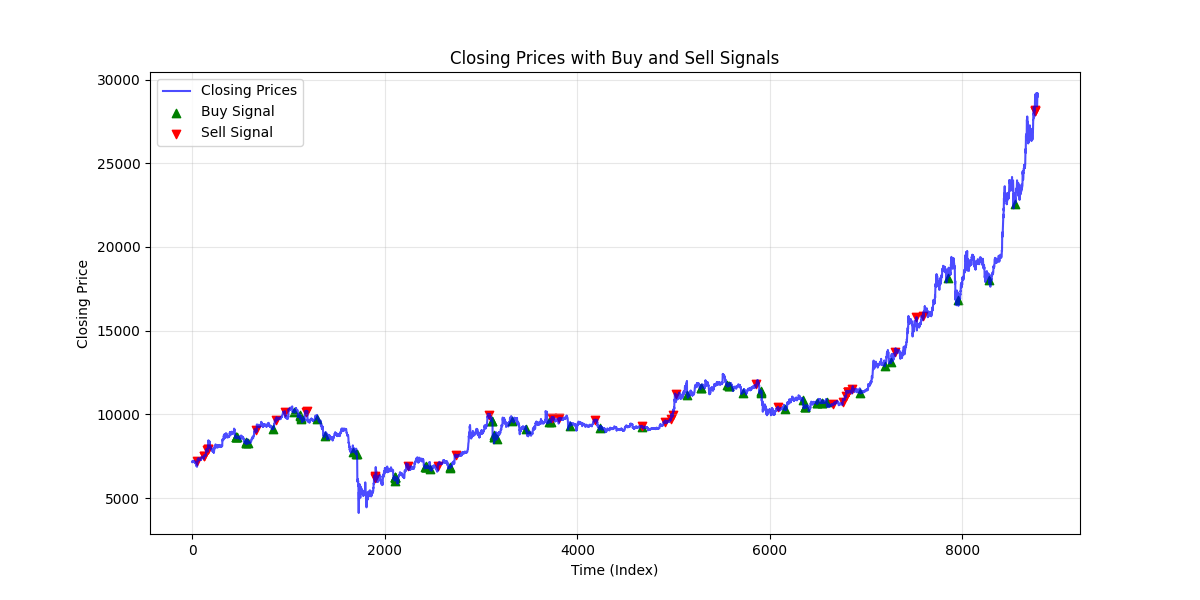
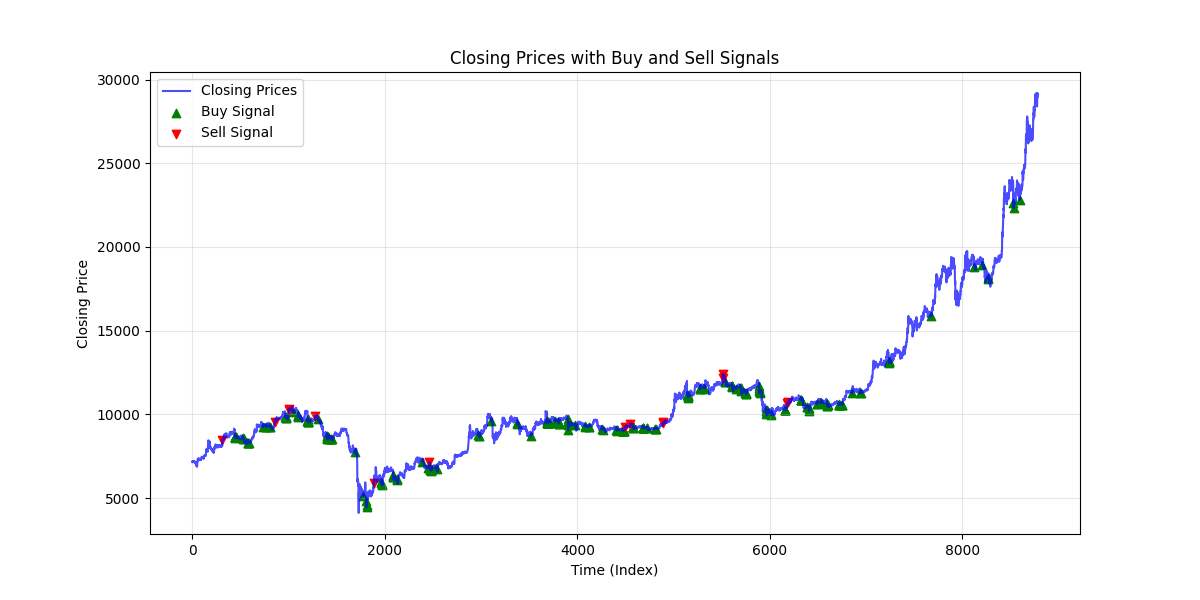
added macd_bot not really working though

diff --git a/utils/plots.py b/utils/plots.py
@@ -29,3 +29,46 @@ def plot(data, signals, plot_name="signals_plot"):
     # plt.grid(alpha=0.3)
     # plt.savefig("plots/signals_bar_plot.png")
     # print("Bar plot saved as 'signals_bar_plot.png'")
+
+def plot_macd_with_signals(data, macd_line, signal_line, signals, plot_name="macd_with_signals"):
+    """
+    Plot the MACD line, Signal line, prices, and buy/sell signals on the same graph.
+
+    Parameters:
+        data (pd.DataFrame): The dataset containing price data.
+        macd_line (numpy.ndarray): The MACD line (difference between fast and slow EMA).
+        signal_line (numpy.ndarray): The Signal line (EMA of the MACD line).
+        signals (numpy.ndarray): Array of buy/sell signals (1 for buy, -1 for sell, 0 for hold).
+        plot_name (str): The name of the plot file to save.
+    """
+    prices = data['close'].values
+    buy_signals = np.where(signals == 1)[0]
+    sell_signals = np.where(signals == -1)[0]
+
+    plt.figure(figsize=(14, 8))
+
+    # Plot the closing prices
+    plt.subplot(2, 1, 1)
+    plt.plot(prices, label="Closing Prices", color="blue", alpha=0.7)
+    plt.scatter(buy_signals, prices[buy_signals], label="Buy Signal", marker="^", color="green", alpha=1)
+    plt.scatter(sell_signals, prices[sell_signals], label="Sell Signal", marker="v", color="red", alpha=1)
+    plt.title("Closing Prices with Buy/Sell Signals")
+    plt.xlabel("Time")
+    plt.ylabel("Price")
+    plt.legend()
+    plt.grid(alpha=0.3)
+
+    # Plot the MACD line and Signal line
+    plt.subplot(2, 1, 2)
+    plt.plot(macd_line, label="MACD Line", color="orange", alpha=0.7)
+    plt.plot(signal_line, label="Signal Line", color="purple", alpha=0.7)
+    plt.bar(range(len(macd_line)), macd_line - signal_line, label="MACD Histogram", color="gray", alpha=0.5)
+    plt.title("MACD Line and Signal Line")
+    plt.xlabel("Time")
+    plt.ylabel("Value")
+    plt.legend()
+    plt.grid(alpha=0.3)
+
+    # Save the plot
+    plt.tight_layout()
+    plt.savefig(f"plots/{plot_name}.png")

diff --git a/bots/macd_bot.py b/bots/macd_bot.py
@@ -1,0 +1,53 @@
+import numpy as np
+from bots.bot_base import bot
+from filters.macd import macd
+from utils.data_loader import read_csv
+from config import TRAINING_DATASET_PATH
+from optimisers.grid_search_optimiser import grid_search_optimiser
+from utils.plots import plot_macd_with_signals
+
+class macd_bot(bot):
+    """
+    MACD Strategy:
+    - Hyperparameters:
+      - fast_window: Fast EMA period
+      - slow_window: Slow EMA period
+      - signal_window: Signal line EMA period
+    - Buy (+1) when the MACD line crosses above the Signal line;
+      Sell (-1) when the MACD line crosses below the Signal line;
+      Hold (0) otherwise.
+    """
+
+    def __init__(self):
+        self.hyperparams = []
+        self.bounds = [
+            list(range(5, 31)),
+            list(range(20, 61)), 
+            list(range(5, 21)), 
+        ]
+
+    def generate_signals(self, data):
+        fast_window, slow_window, signal_window = map(int, self.hyperparams)
+
+        fast_window = max(min(fast_window, max(self.bounds[0])), min(self.bounds[0]))
+        slow_window = max(min(slow_window, max(self.bounds[1])), min(self.bounds[1]))
+        signal_window = max(min(signal_window, max(self.bounds[2])), min(self.bounds[2]))
+
+        prices = data["close"].values
+
+        macd_line, signal_line, _ = macd(prices, fast_window, slow_window, signal_window)
+
+        signals = np.zeros_like(macd_line)
+
+        buy_signals = (macd_line[1:] > signal_line[1:]) & (macd_line[:-1] <= signal_line[:-1])
+        signals[1:][buy_signals] = 1
+
+        sell_signals = (macd_line[1:] < signal_line[1:]) & (macd_line[:-1] >= signal_line[:-1])
+        signals[1:][sell_signals] = -1
+
+        # plot_macd_with_signals(data, macd_line, signal_line, signals, plot_name="macd_signals")
+        return signals
+
+macd_bot_instance = macd_bot()
+training_data = read_csv(TRAINING_DATASET_PATH, start_date="2017-01-01", end_date="2018-12-31")
+grid_search_optimiser(macd_bot_instance, training_data)

diff --git a/filters/macd.py b/filters/macd.py
@@ -1,1 +1,32 @@
-# Implement MACD filters here
+import numpy as np
+from filters.wma import ema_filter, wma, pad
+
+def macd(prices, fast_window, slow_window, signal_window):
+    """
+    Calculate the MACD (Moving Average Convergence Divergence) and Signal Line.
+
+    Parameters:
+        prices (numpy.ndarray): Array of price values.
+        fast_window (int): The window size for the fast EMA.
+        slow_window (int): The window size for the slow EMA.
+        signal_window (int): The window size for the signal line EMA.
+
+    Returns:
+        tuple: A tuple containing:
+            - macd_line (numpy.ndarray): The MACD line (difference between fast and slow EMA).
+            - signal_line (numpy.ndarray): The Signal Line (EMA of the MACD line).
+            - macd_histogram (numpy.ndarray): The MACD Histogram (MACD line - Signal line).
+    """
+    fast_filter = ema_filter(fast_window, alpha=2 / (fast_window + 1))
+    slow_filter = ema_filter(slow_window, alpha=2 / (slow_window + 1))
+
+    fast_ema = wma(prices, fast_window, fast_filter)
+    slow_ema = wma(prices, slow_window, slow_filter)
+
+    macd_line = fast_ema - slow_ema 
+
+    signal_filter = ema_filter(signal_window, alpha=2 / (signal_window + 1))
+    signal_line = wma(macd_line, signal_window, signal_filter)
+
+    macd_histogram = macd_line - signal_line 
+    return macd_line, signal_line, macd_histogram

diff --git a/test.py b/test.py
@@ -1,18 +1,9 @@
 from utils.data_loader import read_csv
-from bots.simple_bot import simple_bot
+from config import TRAINING_DATASET_PATH
+from bots.macd_bot import macd_bot
 from optimisers.grid_search_optimiser import grid_search_optimiser
-from config import TRAINING_DATASET_PATH, DATASET_2020_DAILY_PATH
-from utils.plots import plot
 
-# Hyperparameters can either be discrete (define as list) or continuous (define as tuple)
-# e.g. a discrete parameter can be [1, 2, 3, 4, 5] or a continuous parameter can be (1, 10)
-simple_bot_instance = simple_bot()
-
-training_data = read_csv(TRAINING_DATASET_PATH, start_date="2015-01-01", end_date="2015-12-31")
-grid_search_optimiser(simple_bot_instance, training_data)
-plot(training_data, simple_bot_instance.generate_signals(training_data))
-print(simple_bot_instance.hyperparams)
-print(simple_bot_instance.fitness(training_data))
-
-test_data = read_csv(DATASET_2020_DAILY_PATH, start_date="2020-01-01", end_date="2020-12-31")
-print(simple_bot_instance.fitness(test_data)) 
+macd_instance = macd_bot()
+data = read_csv(TRAINING_DATASET_PATH, start_date="2015-01-01", end_date="2015-12-31")
+macd_instance.hyperparams = [21, 20, 5]
+print(macd_instance.generate_signals(data))

diff --git a/README.md b/README.md
@@ -12,65 +12,28 @@
 3. **Documentation**:  
     - The ultimate goal of this project is to optimize hyperparameters using an algorithm. The number of hyperparameters may vary depending on the type of filters used (the type of filter itself may also be a hyperparameter).  
     - Datasets are located in the `data/` folder. You can choose which dataset to use. The datasets are separated into daily and hourly data, categorized as before 2020 and after 2020. Please use the datasets for before 2020 as specified in the project.
-
-4. **Static Functions** (shouldn't need changes unless there is a logic issue):  
     - A function in `utils.data_loader` reads the CSV files. It accepts arguments to customize how the files are read. Refer to the documentation for details.
-    - The `simulate_trades()` function in `trader.py` simulates trades based on the signals generated by your optimization algorithm. This evaluates the **fitness** of your bot. 
-        - Note that there is a small quirk in this function as it allows for consecutive buy/sell signals e.g [1, 1, 1, 0, 0, -1, -1]. In this situation, the simulation will try to buy but will have no cash after the 1st buy signal, so the second and third buy signals will be ignored (treated as a 0/hold signal), same goes for the second sell signal in which it will have no btc to sell.
     - Basic filters are defined in `filters.wma`. Refer to the documentation for more information.
-    - Run `leaderboards.py` when your bot is ready to compare with other bots. The function in `leaderboards.py` uses 2020 and 2021 data to evaluate the bots, DO NOT use these 2 datasets when training your bot (as per the project guidelines).
+    - Run `bots_tester.py` when your bot is ready to compare with other bots. The function in `bots_tester.py` uses 2020 and 2021 data to evaluate the bots, DO NOT use these 2 datasets when training your bot (as per the project guidelines).
+
+4. **The `bot` class**:
+    - A bot can be defined as an object that takes *n* hyperparameters and outputs a *fitness* value. 
+    - In order to achieve this, we can create a bot class that contains a general `fitness()` function that takes an array of signals and a corresponding array of BTC/USDT conversion rates.
+        - Note that there is a small quirk in this function as it allows for consecutive buy/sell signals e.g [1, 1, 1, 0, 0, -1, -1]. In this situation, the simulation will try to buy but will have no cash after the 1st buy signal, so the second and third buy signals will be ignored (treated as a 0/hold signal), same goes for the second sell signal in which it will have no btc to sell.
+    - We can then extend this bot class (inheritance) into individual bots in which we define a `generate_signals()` function that uses a *trading strategy* and its hyperparameters to generate an array of trading signals. 
+        - The hyperparameters are stored internally in the bot object.
+        - We also need to define the *bounds* of the hyperparameters. To do this, each bound can be defined as a `2-tuple` to indicate a continuous variable or as a `list` to indicate a discrete variable.
+    - To optimise a bot, we can create an instance of the bot class and pass it to a optimisation function that will modify the internal hyperparameters of the bot object and use the inbuilt `fitness` function to achieve this.
 
 5. **Goal** i.e. tasks:
-    - **Each group member**: implement 2 bots (should literally only take 1-2 hours)
-        - 1 simple bot to get a feel for things: this can be an algorithm from lectures or any other algorithm you wish to implement.
-        - 1 complex bot: ideally one of the nature-based algorithms researched in part 1.
+    - **Each group member**: extend the `bot` class in bots/bot_base.py, define a trading strategy in `generate_signals()` method and define the bounds of the hyperparameters in the class.
     - Anyone that wishes to (may be necessary for completing your bot)
+        - Create a generalised optimisation function that can optimise a bot of *n* hyperparameters
         - Implement some custom filters and MACD filters.
         - Use matplotlib to generate some plots with buy/sell signals marked for each bot
         - Start writing the report or draft of report
 
-6. **How to Implement a Bot**:To implement a bot, follow these steps:
-    1. **Create a New Python File**:
-    - Add a new Python file in the `bots/` folder. For example, `my_bot.py`.
-
-    2. **Write Two Functions**:
-    - Every bot must have two functions:
-        - `generate_signals(data)`: This function generates trading signals based on the input data.
-        - An optimization function (e.g., `my_optimizer()`): This function optimizes the hyperparameters for the bot.
-        - The bot is separated into 2 functions so that you can implement both in any way you like and select as many hyperparameters as you wish.
-
-    3. **`generate_signals(data)` Function**:
-    - This function **must**:
-        - Take a single required argument, `data`, which is a pandas DataFrame containing the price data.
-        - Return a NumPy array of the same length as the input data, containing:
-        - `1` for buy signals,
-        - `-1` for sell signals,
-        - `0` for hold signals.
-    - If hyperparameters are not provided, this function should call the optimizer to determine the best parameters.
-        - To do this, set hyperparameters to default value of `None`.
-        - `leaderboard.py` calls the `generate_signals()` function with no hyperparamaters provided so that it can be tested against the 2020 and 2021 datasets.
-    - This function may vary from bot to bot, e.g. one bot may use an ema filter comined with an lma filter, whilst another bot may use the filter as a hyperparameter itself.
-    - Optionally it can also use a `granularity` argument which specifies which type of granularity the data is (daily, hourly, minutes) so that the behaviour can possibly vary depending on what type of dataset is used.
-    - Regardles of how complex or exotic the bot is, the final goal of any bot is to generate buy/sell signals.
-
-    4. **Optimization Function**:
-    - The optimization function should:
-        - Use the `simulate_trades()` function to evaluate the performance of candidate solutions.
-        - Use the `generate_signals()` function to generate the signals used in `simulate_trades()`.
-        - This function should be using the `read_csv` function to get the training dataset you wish to use
-            - There is daily, hourly and by the minute data, maybe it is more beneficial to use more data to train (i.e. use minutes data across a year)? Need to consider trade off between number of evaluations and size of dataset.
-        - This function should also be using the `simulate_trades()` function to evaluate the fitness at each iteration (the evaluation function)
-        - Return the optimal hyperparameters for the bot.
-
-    5. **Test Your Bot**:
-    - Run `leaderboards.py` to test your bot against the 2020 and 2021 datasets.
-    - Alternatively, use `test.py` to test your bot independently.
-
-    6. **Naming Convention**:
-    - Ensure your bot file has a unique name (e.g., `my_bot.py`).
-    - The `generate_signals()` function must be present in every bot file and follow the required signature.
-
-7. **Other Notes**:  
+6. **Other Notes**:  
     - Use `test.py` if you wish to test your bot outside of the leaderboard functionality.
     - The **design** of the bot itself may become a parameter (e.g. choice between ema and lma for the higher frequency moving average).
     - There are 5 values for each datapoint (OHLCV). The `leaderboards.py` will use the closing value for the fitness evaluation (and your optimiser should use this value as the fitness evaluation as well, see point #10 for more justification), however your optimizer may use OHL & V values to optimise (maybe theres a correlation between OHL & V and C)
@@ -87,7 +50,7 @@
         10. **Confidence Threshold Strategy** – Only execute trades when the signal strength (like MA difference) exceeds a minimum threshold.
         11. **Multi-Timescale Strategy** – Combine signals from different timescales (e.g., hourly and daily) and trade only when both agree.
 
-8. **Algorithms to Implement** (choose from these if you wish):
+7. **Algorithms to Implement** (choose from these if you wish):
     - CCS
     - CCS with "Acceleration Step"
     - Powell's Method
@@ -107,7 +70,7 @@
     - ACO
     - WOA
 
-9. **Possible Hyperparameters**:  
+8. **Possible Hyperparameters**:  
     - `N_short`: Short MA window  
     - `N_long`: Long MA window  
     - `filter_type_short`: Type of filter for short MA (e.g., 0 = SMA, 1 = EMA, 2 = LMA)  
@@ -119,7 +82,7 @@
     - `rebuy_delay`: Delay between trades  
     - `hold_threshold`: Minimum price drop to trigger a sell
 
-10. **Nerd stuff if you want to check my code and assumptions**
+9. **Nerd stuff if you want to check my code and assumptions**
     - Determining which value to use for buy/sell:
         - Each row in the dataset has 5 values: open, high, low, close & volume. We cannot use high or low as the exchange rate as we simply do not know at what time this occured during the day (or during the minute/hour depending on the dataset).
         - Open and close are basically the same thing, e.g. the closing exchange rate on the 16/04 is usually almost the same as the opening exchange rate on the 17/04.
